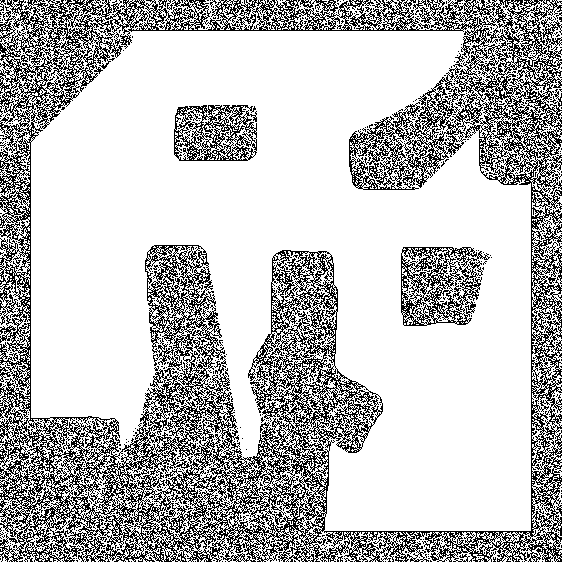
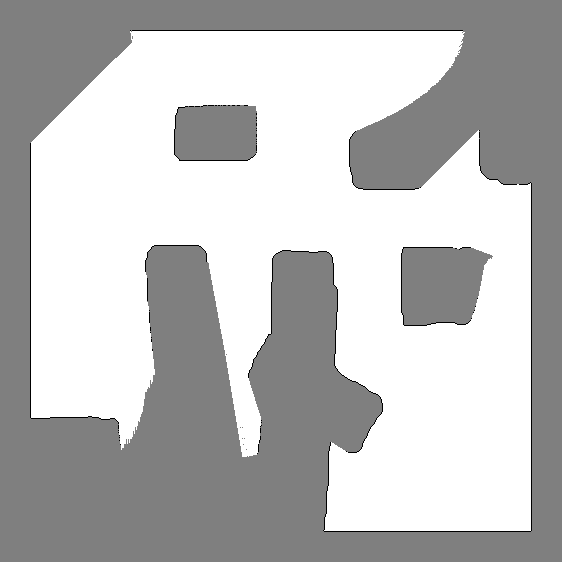
Draw trajectory of robot moving through the map.
git-svn-id: https://svn.cc.gatech.edu/borg/OccupancyGrid/trunk@18737 898a188c-9671-0410-8e00-e3fd810bbb7f

diff --git a/src/visualize_ground_truth.cpp b/src/visualize_ground_truth.cpp
@@ -32,6 +32,29 @@ class OccupancyGrid2DGT : public OccupancyGrid2D<real_t, int_t> {
     }
 };
 
+void cvArrow(cv::Mat& vis, 
+    int x, int y, int u, int v, cv::Scalar line_color, int line_thickness = 1) 
+{
+  cv::Point2i p,q;
+  q.x = x;
+  q.y = y;
+  p.x = x + u;
+  p.y = y + v;
+
+  cv::line(vis, p, q, line_color, line_thickness, CV_AA, 0);
+
+  const double pi = boost::math::constants::pi<double>();
+  double angle = atan2((double) p.y-q.y,(double) p.x-q.x);
+  double arrow_length = sqrt(u*u + v*v);
+  q.x = (int) (p.x - arrow_length / 3 * cos(angle + (pi / 6)));
+  q.y = (int) (p.y - arrow_length / 3 * sin(angle + (pi / 6)));
+  cv::line(vis, p, q, line_color, line_thickness, CV_AA, 0);
+
+  q.x = (int) (p.x - arrow_length / 3 * cos(angle - (pi / 6)));
+  q.y = (int) (p.y - arrow_length / 3 * sin(angle - (pi / 6)));
+  cv::line(vis, p, q, line_color, line_thickness, CV_AA, 0);
+}
+
 int main(int argc, char** argv) {
   if (argc != 8) {
     std::cout << "Sample usage (from Data/player_sim_with_reflectance):"
@@ -92,6 +115,11 @@ int main(int argc, char** argv) {
     bfs::create_directory("inputstream");
     boost::format gt_fmter("groundtruth/%d.png");
     bfs::create_directory("groundtruth");
+
+    // trajectory map
+    cv::Mat trajectory;
+    cv::cvtColor(map.og_, trajectory, cv::COLOR_GRAY2BGR);
+    const double pi = boost::math::constants::pi<double>();
     for (r = 0; r < laser_pose.rows; r++) {
         double* pose = laser_pose.ptr<double>(r);
         double* angles = scan_angles.ptr<double>(r);
@@ -115,6 +143,20 @@ int main(int argc, char** argv) {
         cv::imshow("c", visin);
         cv::imwrite((in_fmter % r).str(), visin);
 
+        // draw trajectory
+        double arrow_len = .5;
+        if ( r % (int)(arrow_len / cellsize(0)) == 0) {
+          double u = arrow_len * cos(robot_angle);
+          double v = arrow_len * sin(robot_angle);
+          cv::Point2i pt = map.xy2rc(cv::Vec2d(pose[0], pose[1])); 
+          cv::Point2i pt2 = map.xy2rc(cv::Vec2d(pose[0] + u, pose[1] + v));
+          cvArrow(trajectory, 
+              pt.x, pt.y, 
+              pt2.x - pt.x, pt2.y - pt.y,
+              cv::Scalar(255, 0, 0));
+          cv::imshow("e", trajectory);
+        }
+
         // draw ground truth
         cv::Mat vis;
         cv::cvtColor(map.gt_, vis, cv::COLOR_GRAY2BGR);
@@ -128,4 +170,5 @@ int main(int argc, char** argv) {
     std::stringstream ss;
     ss << "groundtruth/" << ++r << ".png";
     cv::imwrite(ss.str(), map.gt_);
+    cv::imwrite("trajectory.png", trajectory);
 }

diff --git a/scripts/conv_exp_hospital_section.py b/scripts/conv_exp_hospital_section.py
@@ -1,0 +1,3 @@
+import convergence_experiment
+def executables():
+    return convergence_experiment.executables("Data/hospital_section_player/")
